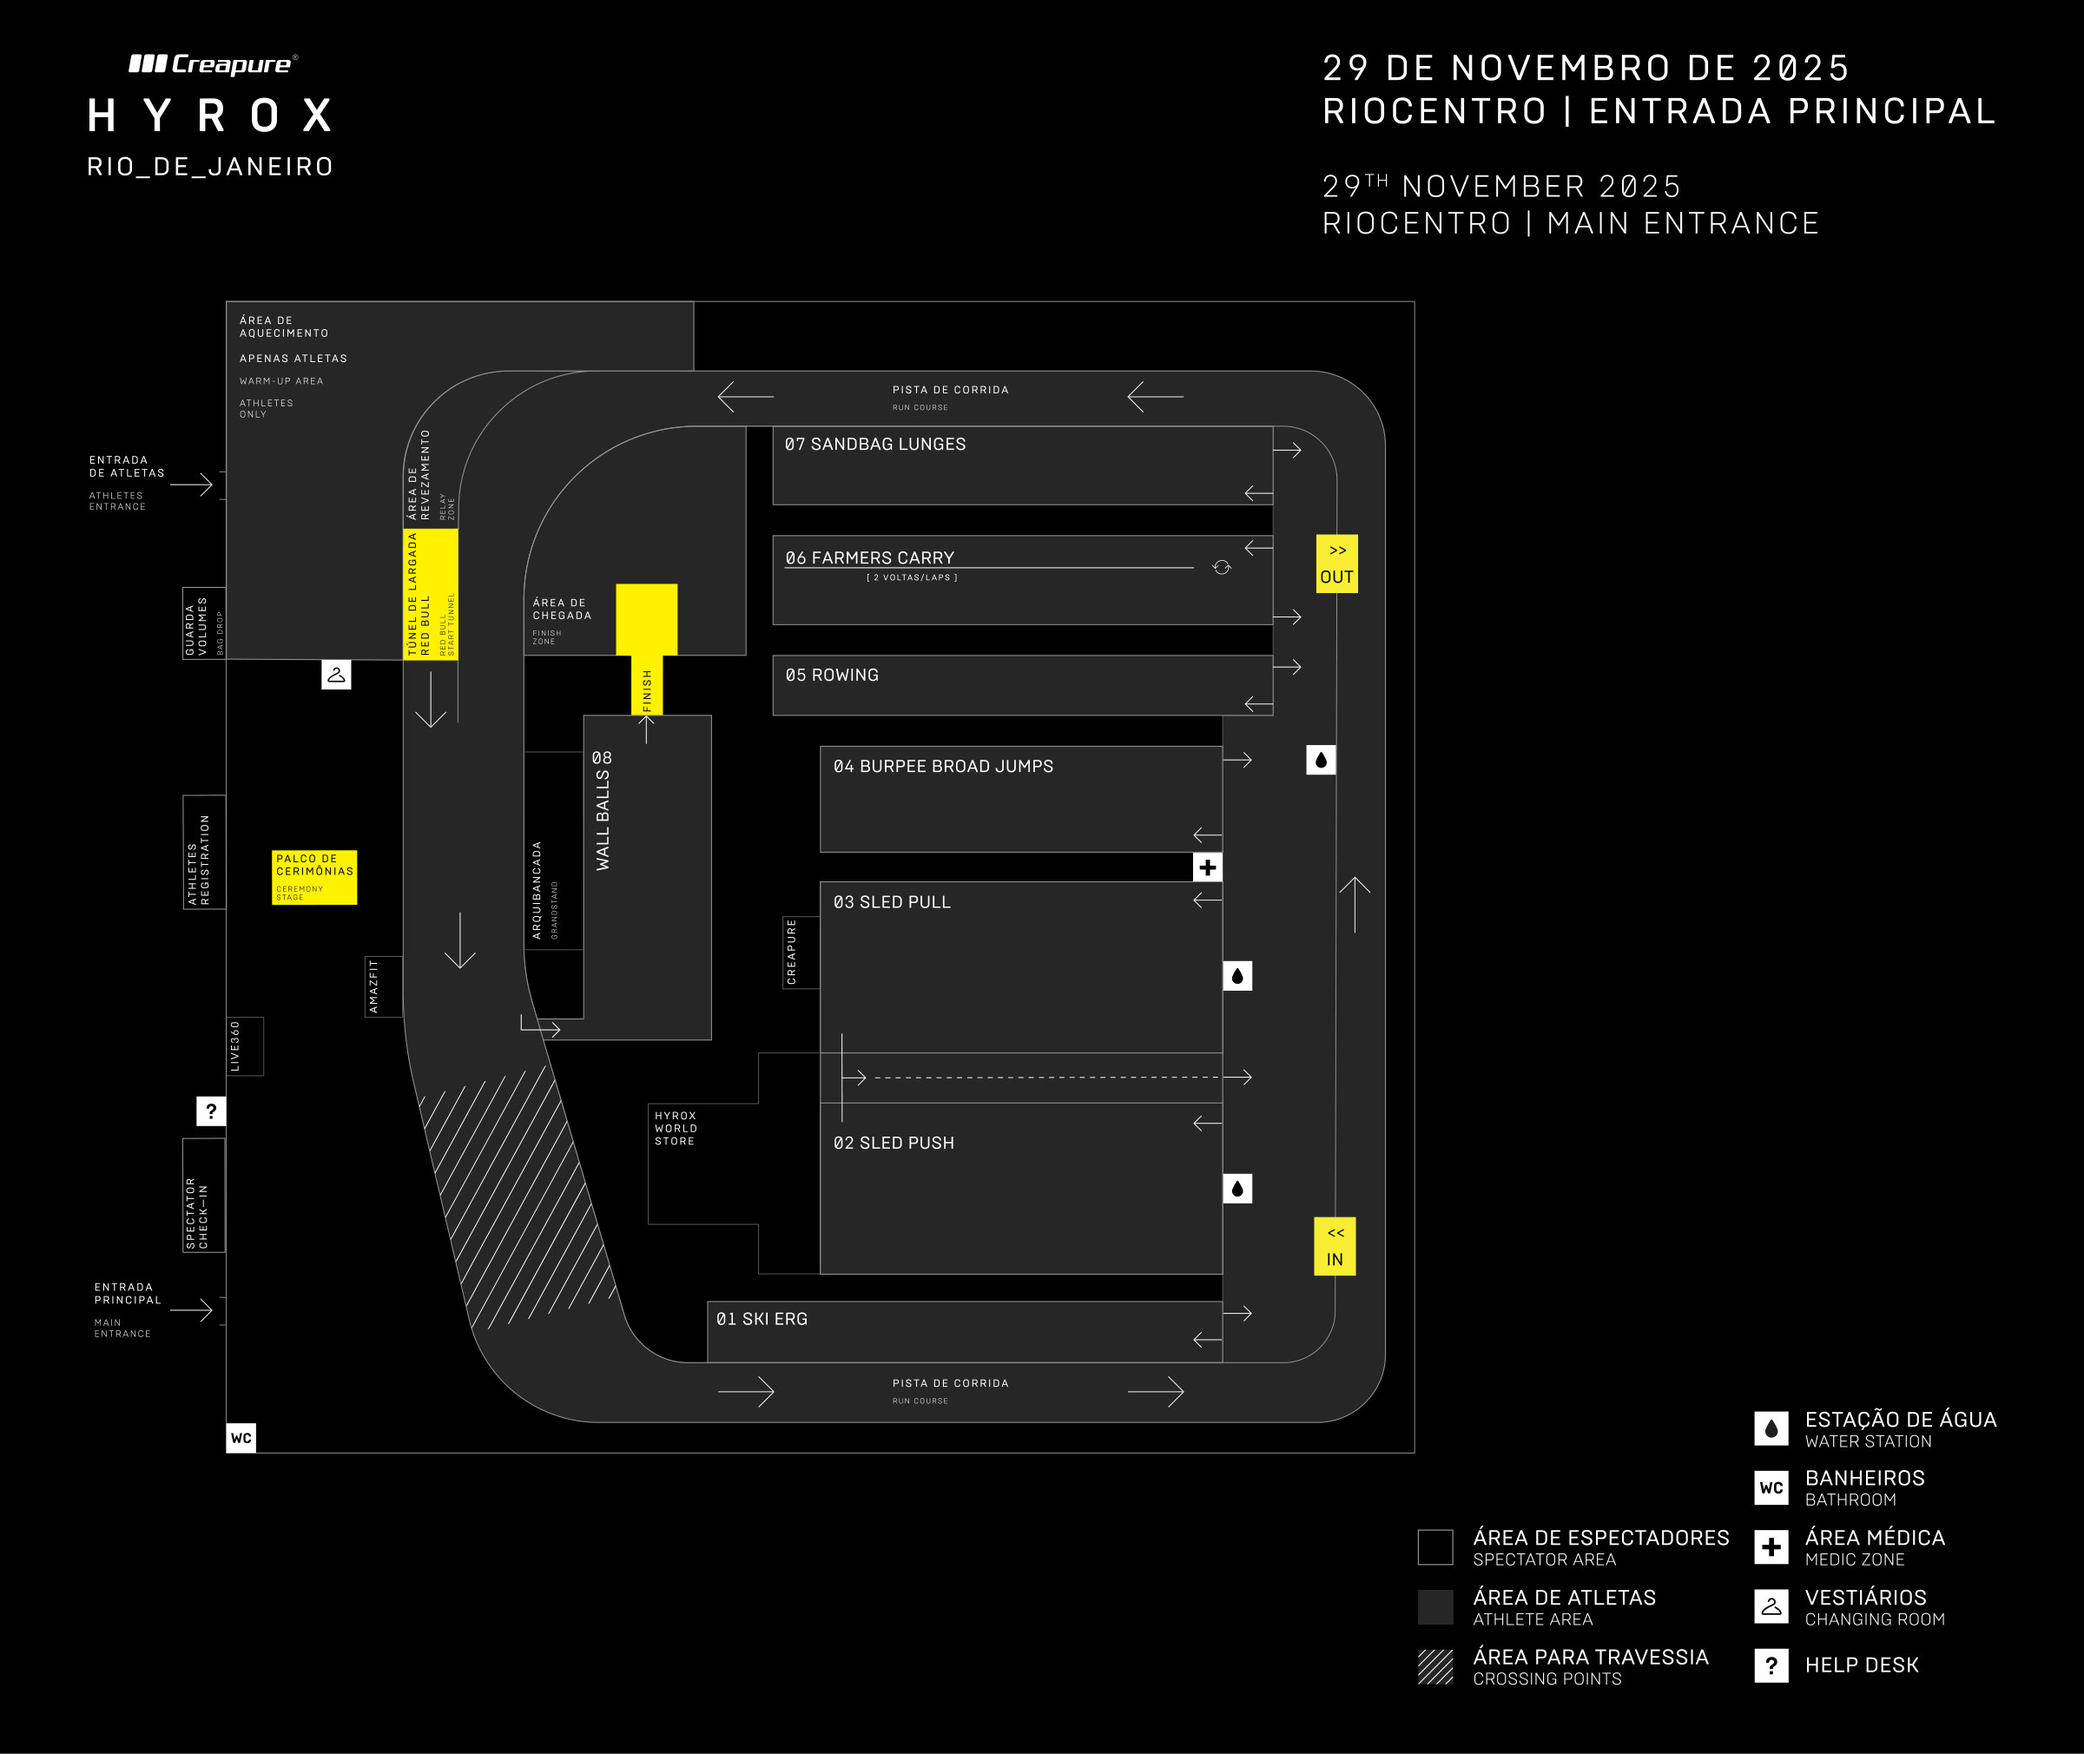
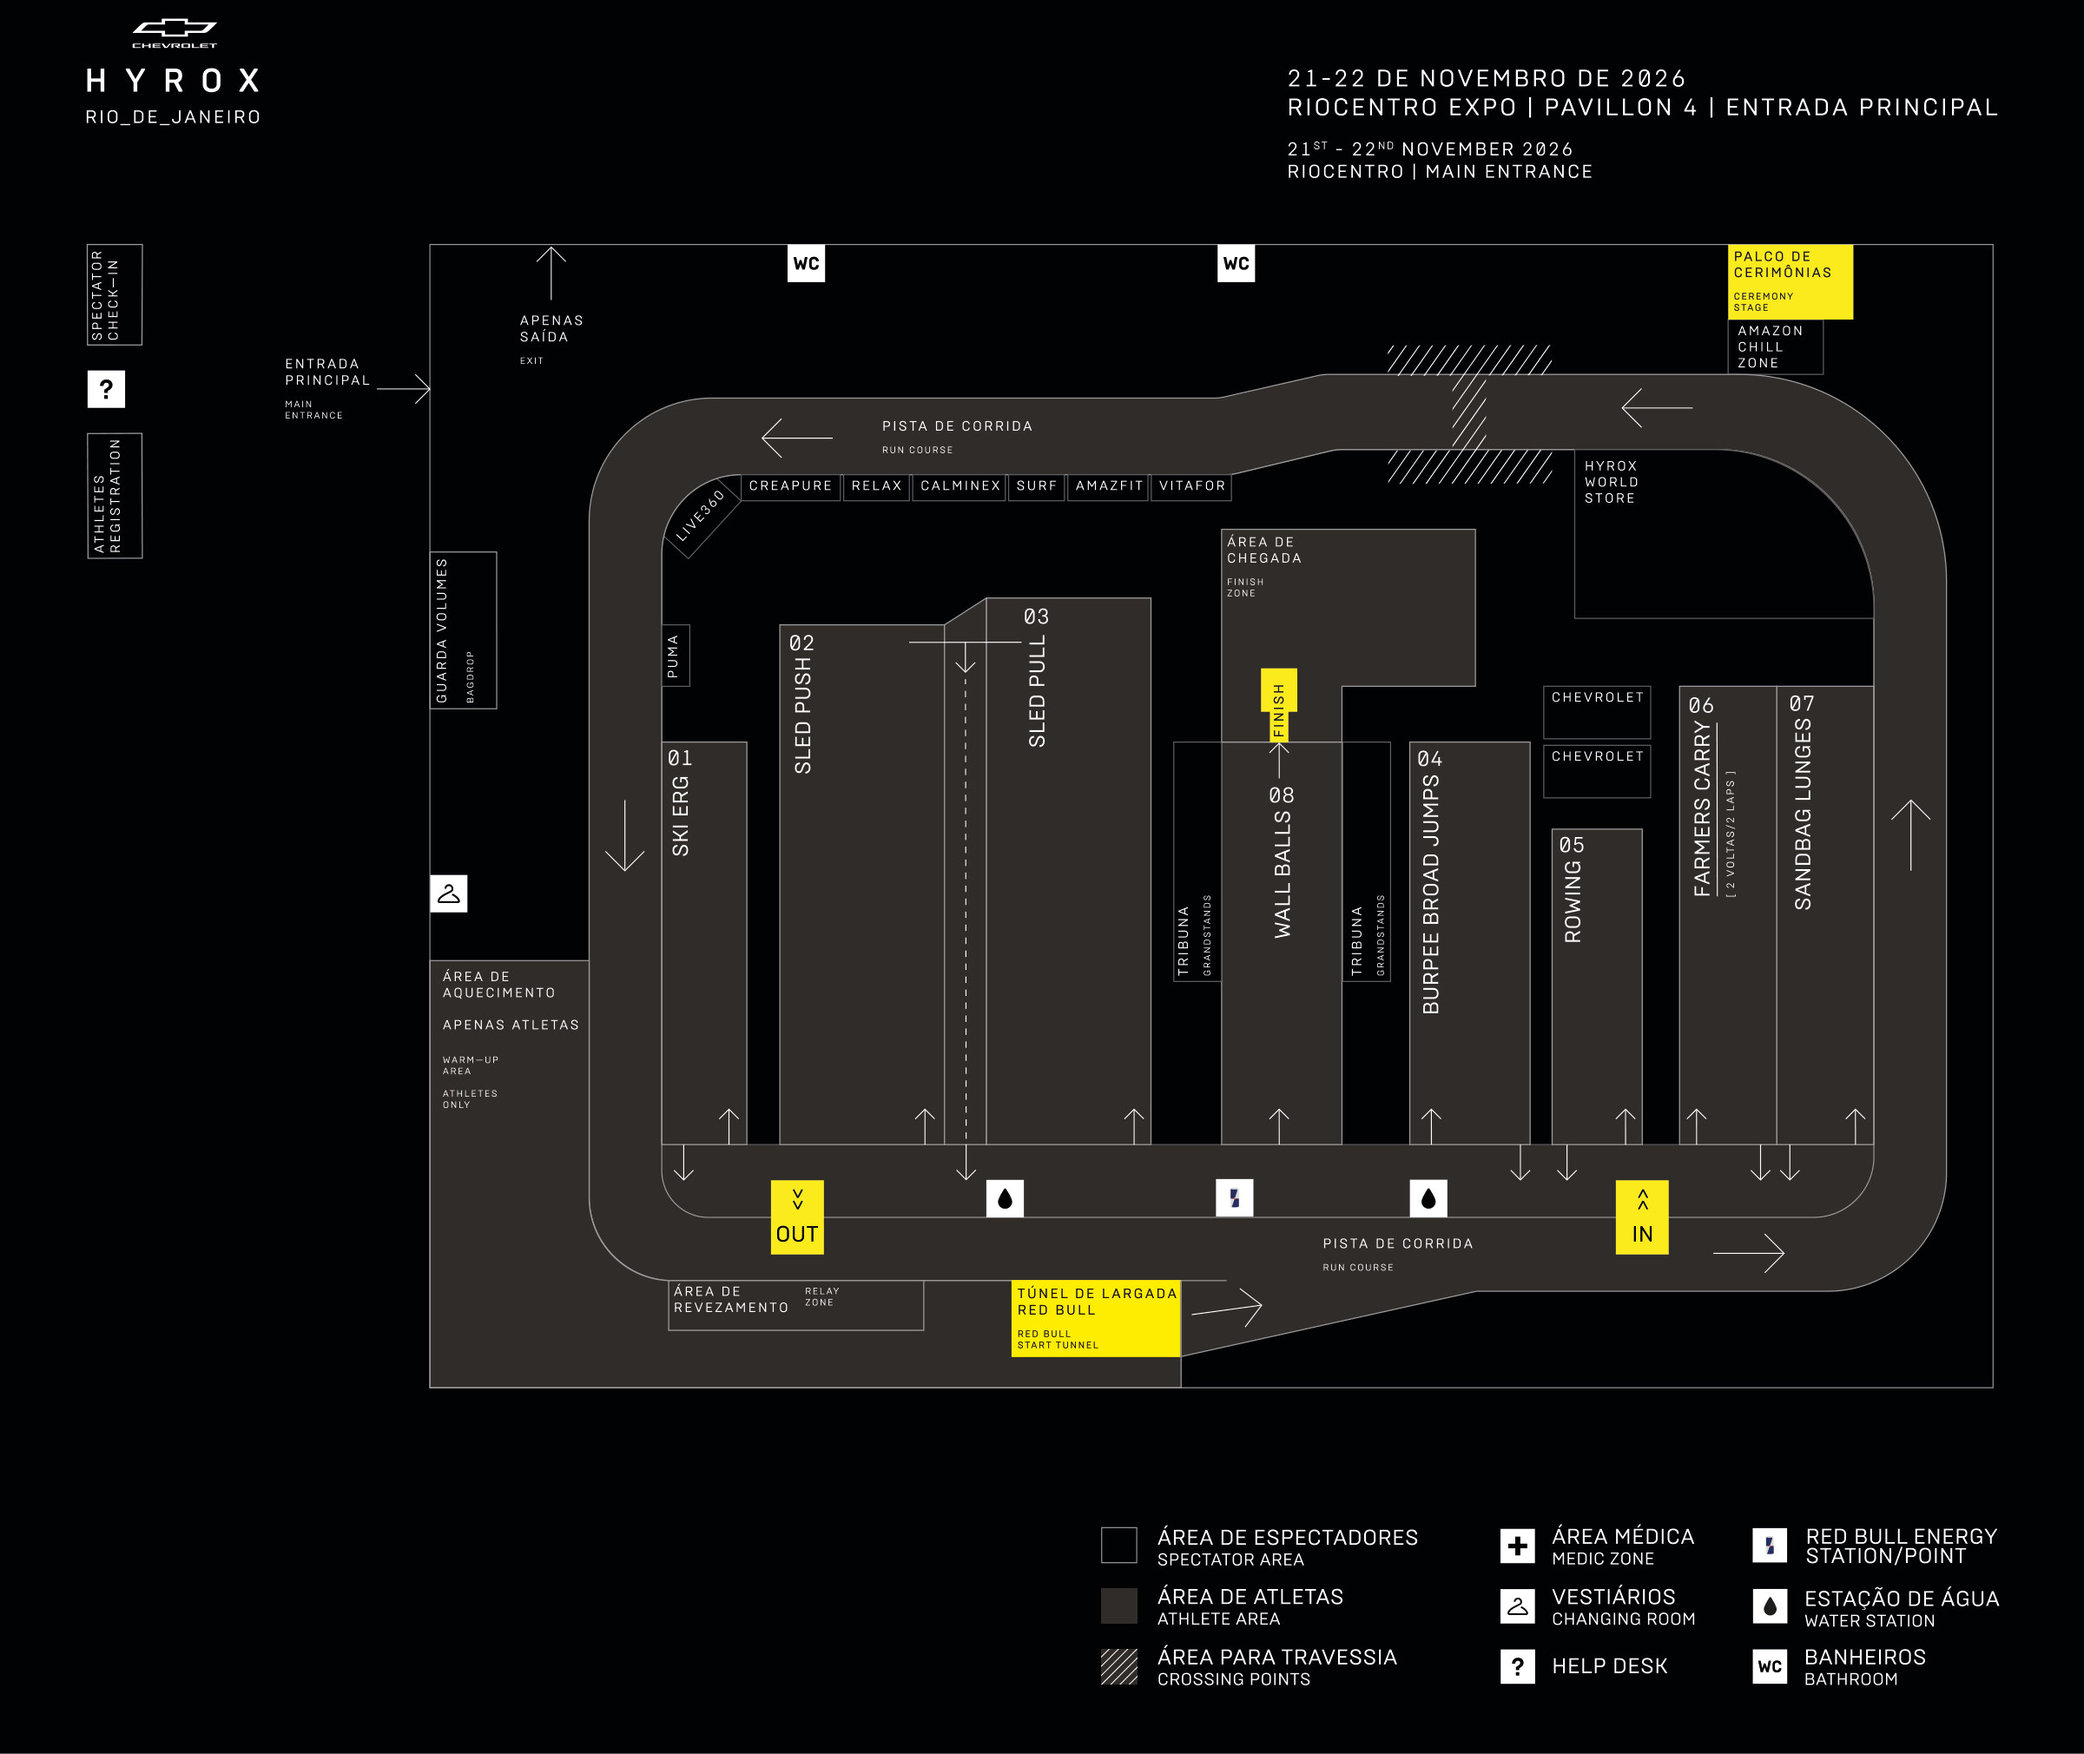
chore(events): auto-update venue maps + mobile images from Hyrox media library

diff --git a/src/data/events.ts b/src/data/events.ts
@@ -2621,7 +2621,7 @@ export const EVENTS: HyroxEvent[] = [
     startDate: "2026-11-21",
     venue: "Riocentro",
     venueAddress: "Av. Salvador Allende 6555, Barra da Tijuca, Rio de Janeiro, RJ 22783-127",
-    courseMapUrl: "https://hyrox.com/wp-content/uploads/2025/11/HYROX_RioDeJaneiro_VenueMap_PRINT_2215x1864mm-2.pdf",
+    courseMapUrl: "https://hyrox.com/wp-content/uploads/2026/11/HYROX_RioDeJaneiro_VenueMap_PRINT_2215x1864mm-3.pdf",
     courseMapImageUrl: "/images/events/rio-de-janeiro-course-map-2026.jpg",
     officialUrl: HYROX_OFFICIAL,
     confirmed: true,
